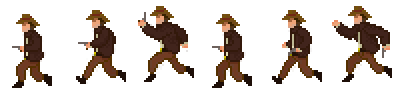
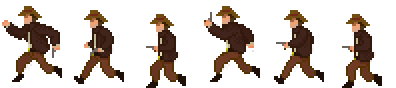
Прислонившийся герой + Исправлена анимация бега влево

diff --git a/js/run.js b/js/run.js
@@ -38,7 +38,7 @@ const run = (DD) => {
           }
           indi.posision += 0.03; // смена картинок для бега
           indi.x ++;
-          if ((indi.x + DD[0]) >= 899 - indi.width) {
+          if ((indi.x + DD[0]) >= canvas.width * 3 / 4) {
             backGroundParse(1,0,DD); //сдвиг фона
           }
           indi.orientation = "r"; // смена ориентации
@@ -47,7 +47,7 @@ const run = (DD) => {
              indi.y += 2;
            }
            ctx.drawImage(indi.hero ,160 ,296 ,160 ,200 , indi.x , indi.y , 80 , 80); // анимация "столкновение со стеной"*/
-          ctx.drawImage(TestR , (indi.x + DD[0]), (indi.y + DD[1]),32 ,64 );
+          ctx.drawImage(TestR, (indi.x + DD[0]), (indi.y + DD[1]),32 ,64 );
         }
       }
       if (leftPressed) {
@@ -55,20 +55,20 @@ const run = (DD) => {
           indi.hero.src = "images/hero/HeroL.png";
           if (indi.airTime < 100) {  // проверка на состояние в воздухе(при изменение физики требует доработки)
             // ctx.drawImage(indi.hero ,800 - ((~~indi.posision) * 160) % 960 ,0 ,160 ,200 , indi.x , indi.y , 80 , 80); // анимация бега
-            ctx.drawImage(TestL , (indi.x + DD[0]) , (indi.y + DD[1]),32 ,64 );
+            ctx.drawImage(TestL, (indi.x + DD[0]), (indi.y + DD[1]), 32, 64);
           } else {
               // ctx.drawImage(indi.hero ,480 ,512 ,160 ,200 , indi.x , indi.y , 80 , 80); // анимация падения
-              ctx.drawImage(TestL , (indi.x + DD[0]) , (indi.y + DD[1]),32 ,64 );
+              ctx.drawImage(TestL , (indi.x + DD[0]), (indi.y + DD[1]), 32, 64);
           }
           indi.posision -= 0.03; // смена картинок для бега
           indi.x --;
-          if ((indi.x+ DD[0]) <= 300) {
+          if ((indi.x+ DD[0]) <= canvas.width / 4) {
             backGroundParse(-1,0,DD);
           }
           indi.orientation = "l"; // смена ориентации
         } else {
           // ctx.drawImage(indi.hero ,640 ,296 ,160 ,200 , indi.x , indi.y , 80 , 80); // анимация "столкновение со стеной"
-          ctx.drawImage(TestL , (indi.x + DD[0]) , (indi.y + DD[1]),32 ,64 );
+          ctx.drawImage(TestL, (indi.x + DD[0]), (indi.y + DD[1]), 32, 64);
         }
       }
     }
@@ -106,11 +106,11 @@ const run = (DD) => {
 
     indi.y -= indi.heroDY; //гравитационное смещение
 
-    if ((indi.y+ DD[1]) > 540) {
+    if ((indi.y + DD[1]) > canvas.height / 2) {
       backGroundParse(0, - indi.heroDY,DD); // коректировка фона по высоте
     }
 
-   if ((indi.y+ DD[1]) < 150) {
+   if ((indi.y + DD[1]) < canvas.height / 2) {
       backGroundParse(0, - indi.heroDY,DD); // коректировка фона по высоте
     }
 }
